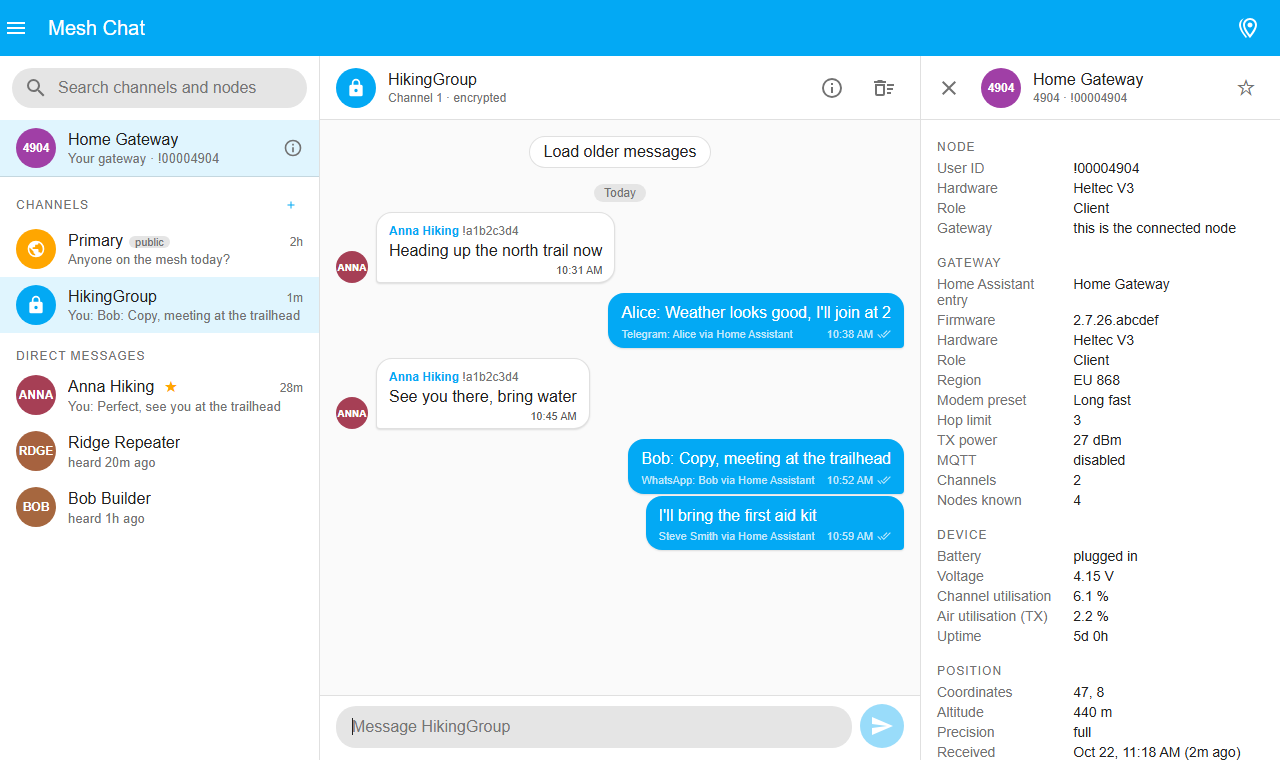
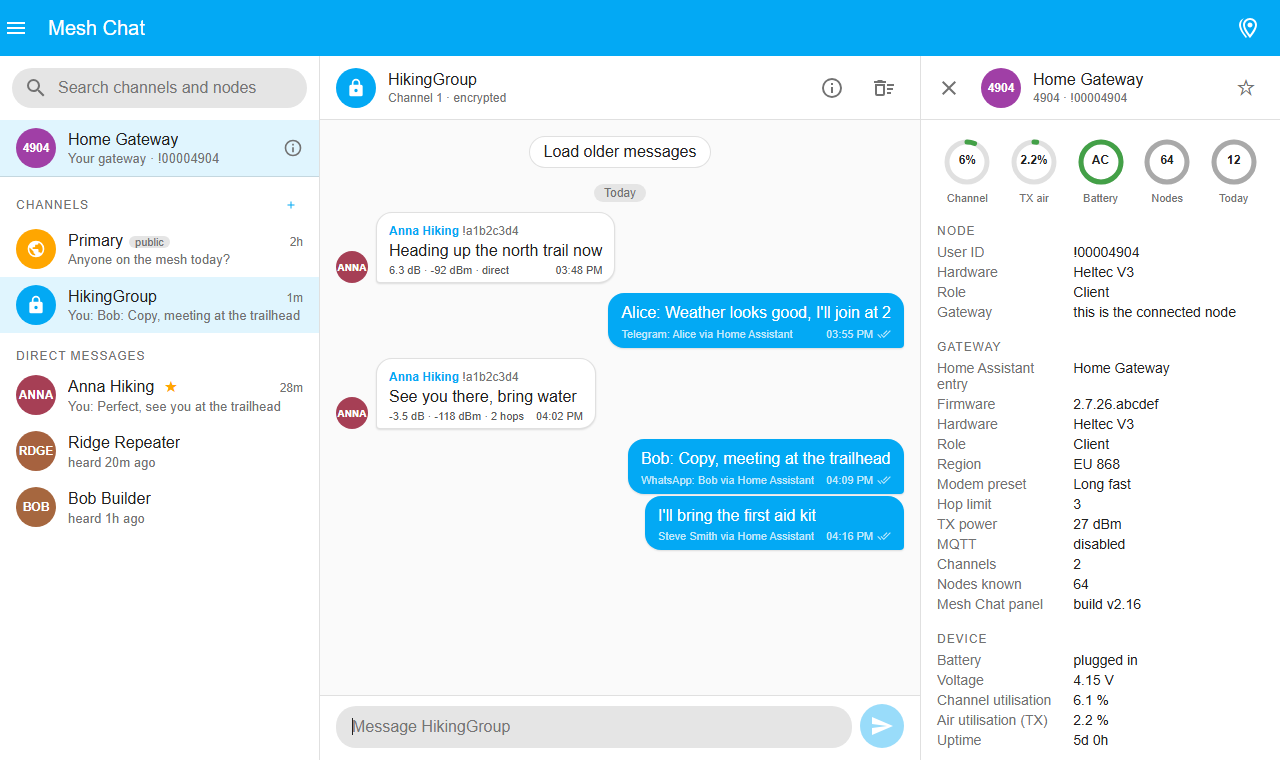
README: signal notes, gateway gauges, message counts

diff --git a/README.md b/README.md
@@ -344,6 +344,7 @@ and to every user once a gateway allows non-administrators (see the options belo
 | `?` on a sent message | no acknowledgement within a minute |
 | `!` on a sent message | failed, with the routing error as tooltip |
 | "… via Home Assistant" under a message | which Home Assistant user, automation or bridge sent it |
+| "6.3 dB · -92 dBm · 1 hop" under a received message | how the gateway heard it: signal to noise, signal strength, and how many relays it passed ("direct" when none) |
 | Byte counter next to the composer | Meshtastic text messages are limited to 200 bytes, prefix included |
 | Bin icon in the header | administrators can delete the stored history of a conversation; messages on devices are not affected |
 | Name or ⓘ in the header | opens the details of the node or channel (see below) |
@@ -356,9 +357,9 @@ Clicking the name in the conversation header opens the details pane; on phones i
 <p align="center"><img src="docs/mesh-chat/node-details.png" width="800" alt="Mesh Chat with the details of a node open on the right: position with distance and bearing, a map, security flags, the Home Assistant device and the request buttons"></p>
 
 For a **node** the pane shows the user ID, hardware and role, how it was last heard (time, hops, SNR, RSSI, via MQTT),
-the last device metrics the gateway received (battery, voltage, channel and air utilisation, uptime), the position with
-its precision and age, the favourite and public-key flags and, when the node has one, a button to its Home Assistant
-device. The **Ask the node** buttons send the integration's existing requests over the mesh – telemetry (device,
+how many of its messages are stored and when the last one arrived, the last device metrics the gateway received
+(battery, voltage, channel and air utilisation, uptime), the position with its precision and age, the favourite and
+public-key flags and, when the node has one, a button to its Home Assistant device. The **Ask the node** buttons send the integration's existing requests over the mesh – telemetry (device,
 environment, power or air quality metrics), position and traceroute – and show the reply, including the route with the
 SNR of every hop. Requests can take up to a minute.
 
@@ -406,9 +407,12 @@ Assistant log with the user's name.
 
 - **Direct message from a channel**: click the sender's name above a received message to open the direct messages
   with that node.
-- **Your gateway**: the row above the channels is the connected node itself. It opens the same details pane with a
-  *Gateway* section on top: Home Assistant entry, firmware, hardware, role, region, modem preset, hop limit, TX
-  power, MQTT, and how many channels and nodes it has.
+- **Your gateway**: the row above the channels is the connected node itself. It opens the same details pane with
+  gauges on top (channel utilisation, transmit air time, battery, nodes known, messages today) and a *Gateway*
+  section: Home Assistant entry, firmware, hardware, role, region, modem preset, hop limit, TX power, MQTT, and how
+  many channels and nodes it has.
+
+<p align="center"><img src="docs/mesh-chat/gateway.png" width="800" alt="The gateway's details with the gauges, and received messages with their signal under the text"></p>
 - **Map of the mesh**: the map button in the toolbar replaces the conversation with a full-size map of every node
   that reported a position, drawn with Home Assistant's map engine but the chat's own markers (short name on a
   coloured circle, full name on hover). A marker opens the node's details; the close button returns to the chat.
